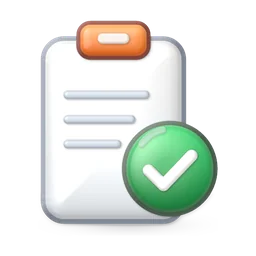
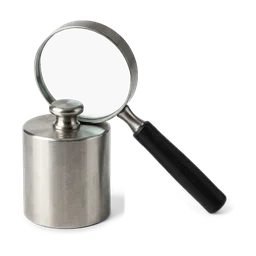
Metrología 8.17.4: íconos fotorrealistas del pedido 2, lote 6 (k_area, k_atencion, k_cono, n_verificar)

diff --git a/index.html b/index.html
@@ -19,7 +19,7 @@
 
   <!-- Rutas relativas: la app también se sirve en /metrologia/ dentro del Portal Pet's Table -->
   <link rel="apple-touch-icon" sizes="180x180" href="apple-touch-icon.png?v=21">
-  <meta http-equiv="Content-Security-Policy" content="default-src 'self'; script-src 'self' https://cdn.jsdelivr.net 'sha256-lzPcFyYIS7av1YAhNWYUOF3WBxHlvObTNGr4PGUKEmE=' 'sha256-BMMDAdY8QdDLMD1jknO+Ce9XMLX+TWUPqgSCI60lPwk=' 'sha256-ik5PahFk0Ow9L6dj/zHryaNATkuyZRLN+bLs/CktDMw='; style-src 'self' 'unsafe-inline' https://fonts.googleapis.com; font-src https://fonts.gstatic.com; img-src 'self' data: blob: https://portal-petstable.vercel.app https://domumnsezocubigfqwry.supabase.co; connect-src 'self' https://domumnsezocubigfqwry.supabase.co wss://domumnsezocubigfqwry.supabase.co; manifest-src 'self'; worker-src 'self'; base-uri 'self'; form-action 'self'; object-src 'none'">
+  <meta http-equiv="Content-Security-Policy" content="default-src 'self'; script-src 'self' https://cdn.jsdelivr.net 'sha256-lzPcFyYIS7av1YAhNWYUOF3WBxHlvObTNGr4PGUKEmE=' 'sha256-e2ByR9mYHiEyutT2Ry8HrDmzurvCBLwPRm87cugWMV0=' 'sha256-3jRbhaWk0hxJl2Np+yRsJFhYc76lgEtzsPju+YmEvMw='; style-src 'self' 'unsafe-inline' https://fonts.googleapis.com; font-src https://fonts.gstatic.com; img-src 'self' data: blob: https://portal-petstable.vercel.app https://domumnsezocubigfqwry.supabase.co; connect-src 'self' https://domumnsezocubigfqwry.supabase.co wss://domumnsezocubigfqwry.supabase.co; manifest-src 'self'; worker-src 'self'; base-uri 'self'; form-action 'self'; object-src 'none'">
[1 lines of base64/hex data omitted]
   <link rel="manifest" href="manifest.webmanifest">
 
@@ -2722,7 +2722,7 @@ html:not(.en-portal) .portal-btn { display: none !important; }
 window.CALBAS_CONFIG = {
   SUPABASE_URL: "https://domumnsezocubigfqwry.supabase.co",
   SUPABASE_ANON_KEY: "sb_publishable_CDb37asQiekme1SuDnIANw_csZ5ZNRh",
-  APP_VERSION: "8.17.3"
+  APP_VERSION: "8.17.4"
 };</script>
   <script>(function () {
 'use strict';
@@ -3021,7 +3021,7 @@ const ICONOS_3D = new Set([ // Paquete de imágenes realistas (v1, 45 imágenes)
   'n_panel', 'n_patrones', 'n_perfil', 'n_usuarios', 'n_verificar', 'no_cumple', 'patron_ref', 'personas', 
   'por_verificar', 'potenciometro', 'reloj', 'sin_uso', 'tableta', 'termometro',
 ]);
-const ICO3D_VER = '5';
+const ICO3D_VER = '6';
 function con3d(n) { return !!n && ICONOS_3D.has(n); }
 document.addEventListener('error', (e) => {
   const img = e.target;

diff --git a/public/js/config.js b/public/js/config.js
@@ -7,5 +7,5 @@
 window.CALBAS_CONFIG = {
   SUPABASE_URL: "https://domumnsezocubigfqwry.supabase.co",
   SUPABASE_ANON_KEY: "sb_publishable_CDb37asQiekme1SuDnIANw_csZ5ZNRh",
-  APP_VERSION: "8.17.3"
+  APP_VERSION: "8.17.4"
 };
